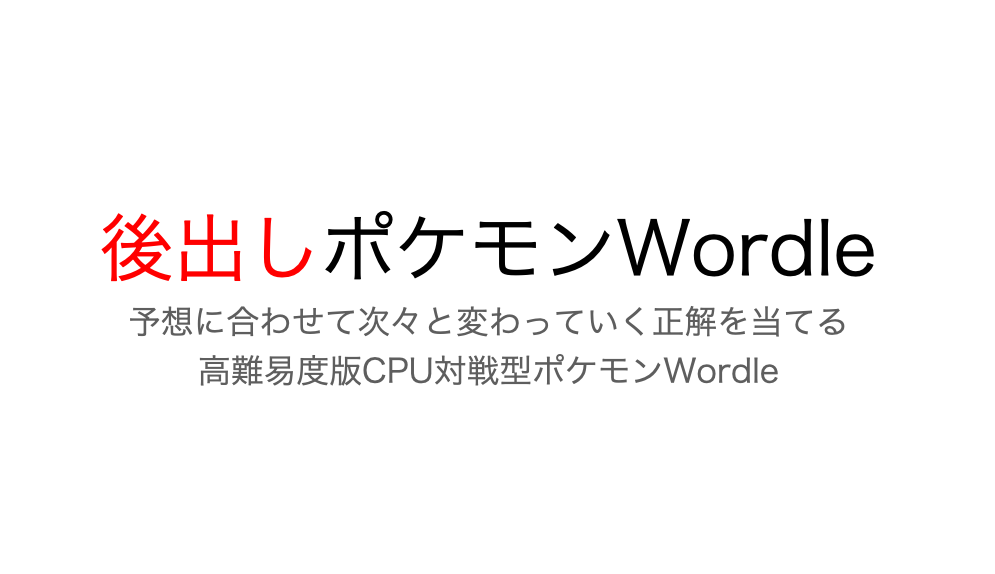
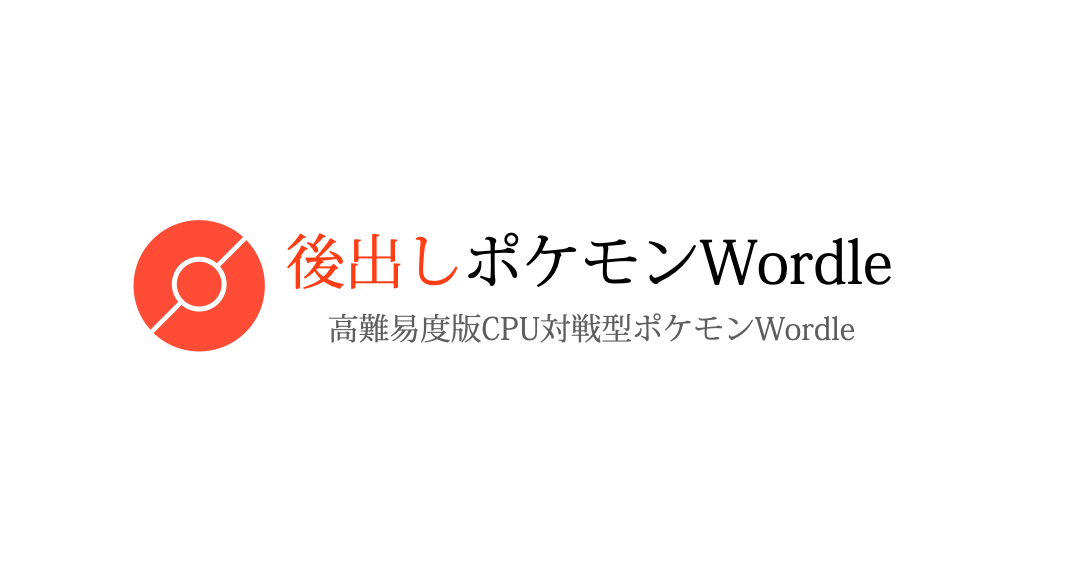
Revise colors and thumbnail

Changed region(s): [[0.0935, 0.363, 0.9035, 0.6957]]

diff --git a/index.html b/index.html
@@ -25,7 +25,7 @@
     <div class="title-container">
       <table>
         <tr>
-          <td><div class="title"><span><b><span style="color:red">後出し</span>ポケモンWordle</b></span></div></td>
+          <td><div class="title"><span><b><span style="color:#EA5639">後出し</span>ポケモンWordle</b></span></div></td>
           <td><button class="settings-key" onClick="clickSettings()"><b>設定</b></button></td>
           <td><button class="help-key" onClick="clickHelp()"><b>？</b></button></td>
         </tr>
@@ -73,11 +73,11 @@
           <div class="result">
             <b><span class="clear-message">クリア！</span></b><br>
             <div class="result-message">
-              <b><span style="color:red">後出し</span></b>ポケモンWordle<span id="result-ultrahard-message" style="display:none;">の<b><span style="color:red">ウルトラハードモード</span></b></span>を<br>
+              <b><span style="color:#EA5639">後出し</span></b>ポケモンWordle<span id="result-ultrahard-message" style="display:none;">の<b><span style="color:#EA5639">ウルトラハードモード</span></b></span>を<br>
               <b><span id="result-turns"></span></b>手でクリアしました！<br>
               おめでとうございます！
             </div>
-            <button class="twitter-share-button" onClick="tweet_result('cleared')">結果をツイートする</button>
+            <button class="twitter-share-button" onClick="tweet_result('clea#EA5639')">結果をツイートする</button>
           </div>
       </div>
       <div class="keyboard-container">
@@ -221,7 +221,7 @@
             このゲームはCPUとの対戦型ゲームになっていて、<b>なるべく正解にたどり着かせたくないCPUと対戦する</b>というルールになっています。
           </li>
           <li>
-            相手はプレイヤーの<b>予想を見た上で、</b>これまでのヒントと<span style="color:red"><b>矛盾しない範囲で次々と正解を変え、
+            相手はプレイヤーの<b>予想を見た上で、</b>これまでのヒントと<span style="color:#EA5639"><b>矛盾しない範囲で次々と正解を変え、
               なるべく難しいヒントを出してきます。</b></span>
           </li>
           <li>
